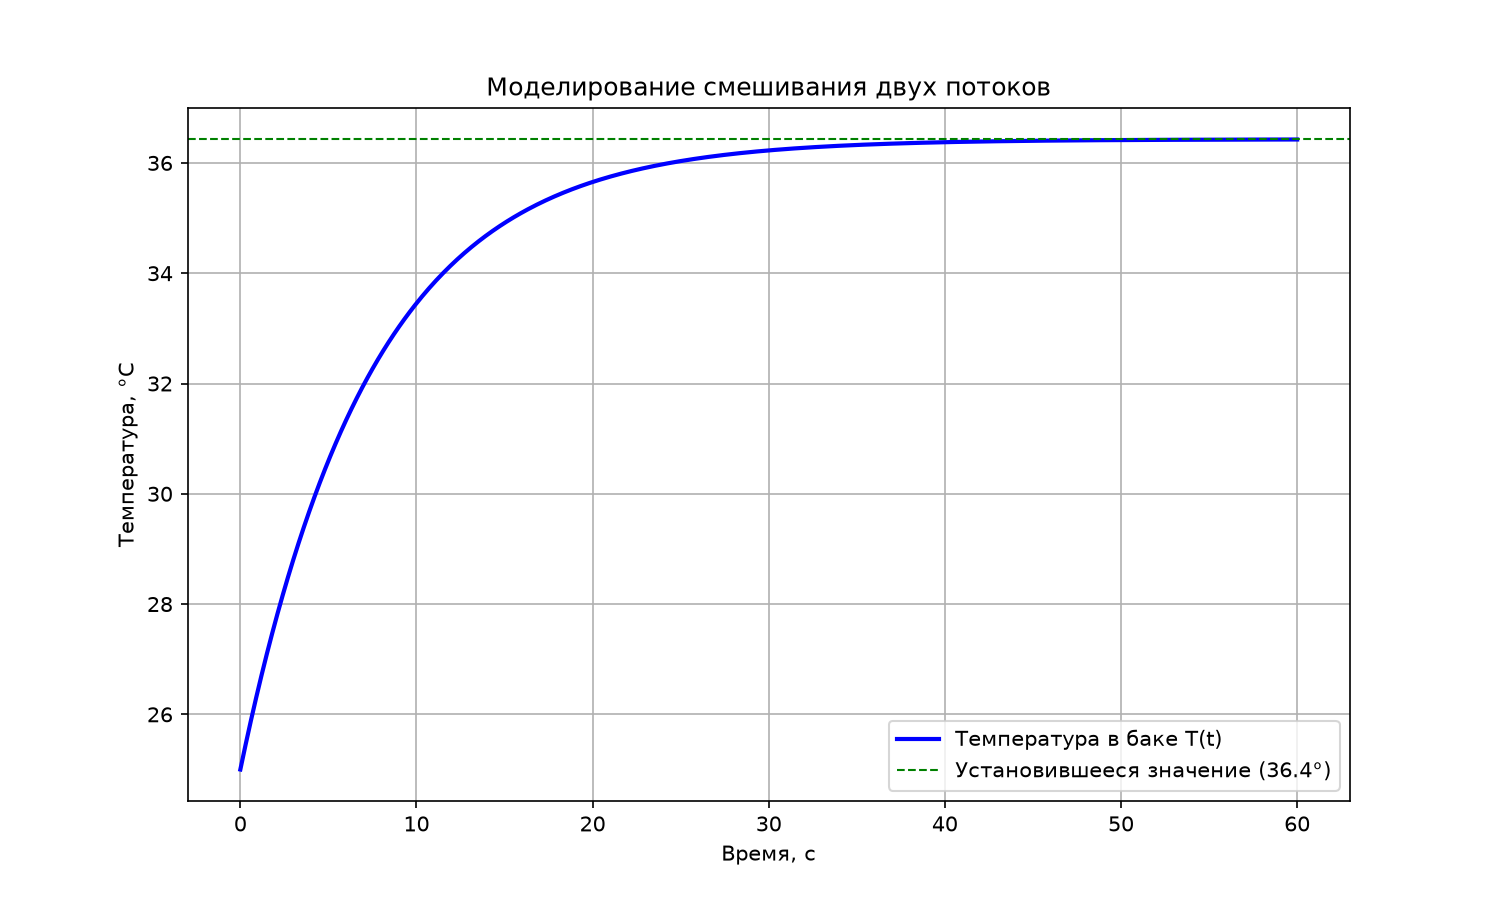
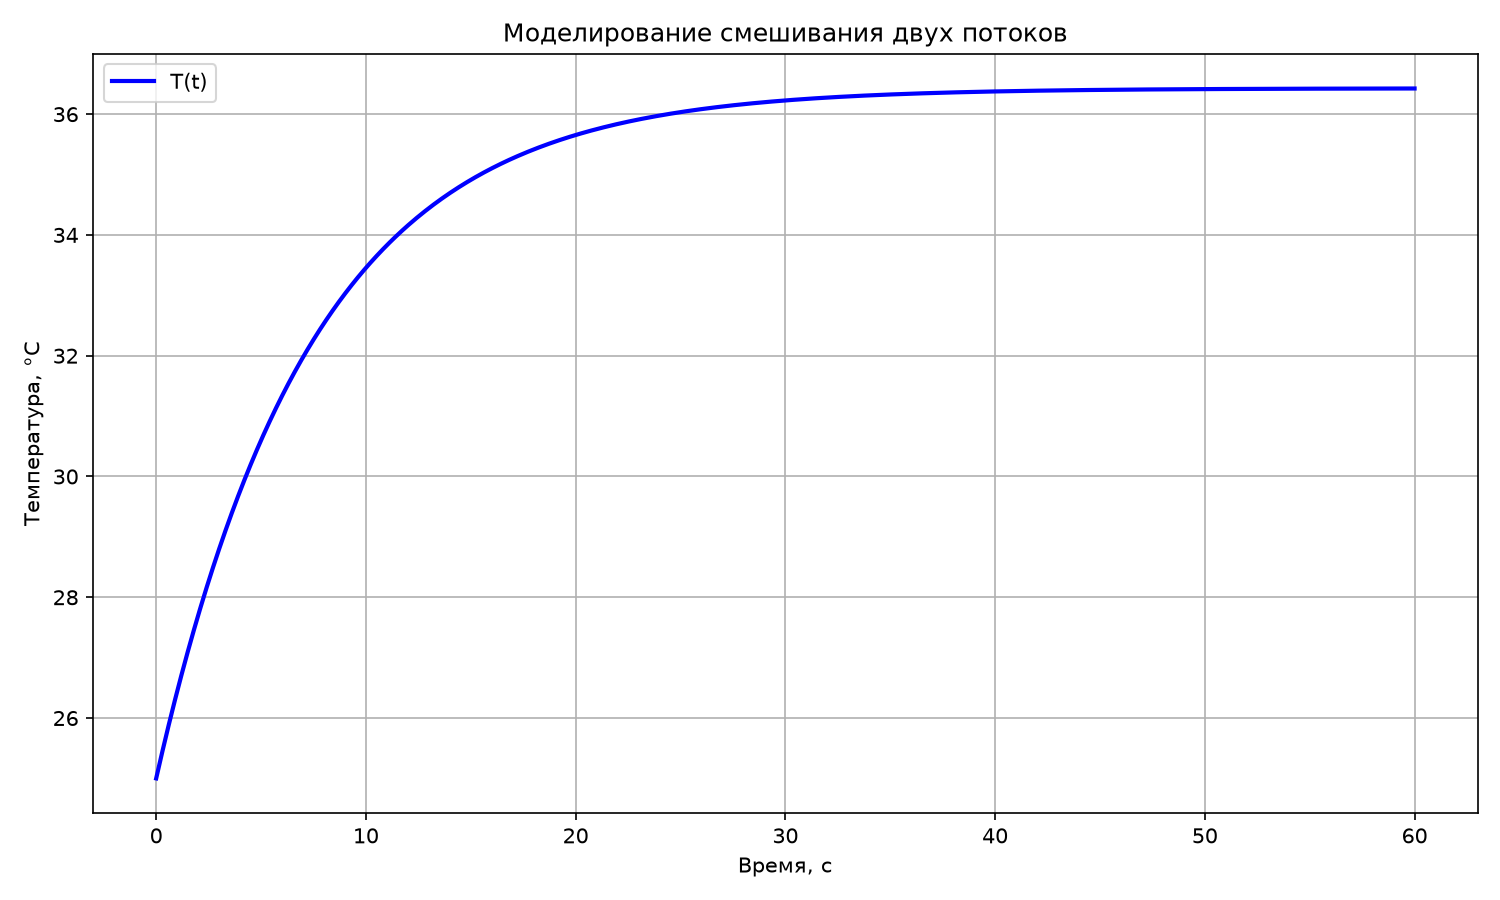
refactor(lab_2): extract constants and wrap simulation in main()

diff --git a/lab_2/main.py b/lab_2/main.py
@@ -1,38 +1,50 @@
-import numpy
-import matplotlib.pyplot as plot
-from scipy.integrate import odeint  # Ordinary Differential Equation Integrator
+"""Моделирование смешивания двух потоков воды в баке."""
 
-volume = 52  # Объем бака
-theta_1 = 15  # Температура первого потока (холодная вода)
-theta_2 = 65  # Температура второго потока (горячая вода)
-g_1 = 4  # Расход первого потока (холодная вода)
-g_2 = 3  # Расход второго потока (горячая вода)
+from pathlib import Path
 
-theta_0 = 25
+import matplotlib.pyplot as plt
+import numpy as np
+from scipy.integrate import odeint  # интегратор ОДУ
 
-def heat_balance_ode(T, t):
-    dT_dt = (g_1 * theta_1 + g_2 * theta_2 - (g_1 + g_2) * T) / volume
+# --- Параметры модели ---
+VOLUME = 52  # Объём бака, л
+THETA_1 = 15  # Температура первого потока (холодная вода), °C
+THETA_2 = 65  # Температура второго потока (горячая вода), °C
+G_1 = 4  # Расход первого потока, м^3/с
+G_2 = 3  # Расход второго потока, м^3/с
+THETA_0 = 25  # Начальная температура воды в баке, °C
+
+# --- Параметры расчёта ---
+T_END = 60  # Длительность моделирования, с
+NUM_POINTS = 600  # Число точек временной сетки
+
+# --- Оформление графика ---
+OUTPUT_FILE = Path(__file__).parent / "simulation.png"  # путь отсчитывается от скрипта
+FIGURE_SIZE = (10, 6)  # размер рисунка, дюймы
+DPI = 150  # разрешение сохраняемого изображения
+
+def heat_balance_ode(T: float, t: float) -> float:
+    """Производная температуры в баке: уравнение теплового баланса."""
+    dT_dt = (G_1 * THETA_1 + G_2 * THETA_2 - (G_1 + G_2) * T) / VOLUME
     return dT_dt
 
-t = numpy.linspace(0, 60, 600)
+def main() -> None:
+    t_grid = np.linspace(0, T_END, NUM_POINTS)
+    T_numeric = odeint(heat_balance_ode, THETA_0, t_grid)
 
-T_solution = odeint(heat_balance_ode, theta_0, t)
+    final = T_numeric[-1][0]
+    print(f"Конечная температура: {final:.2f} градусов")
 
-T_steady = (g_1 * theta_1 + g_2 * theta_2) / (g_1 + g_2)  # dT_dt = 0
-print(f"Установившаяся температура: {T_steady:.2f} градусов")
+    plt.figure(figsize=FIGURE_SIZE)
+    plt.plot(t_grid, T_numeric, "b-", linewidth=2, label="T(t)")
+    plt.title("Моделирование смешивания двух потоков")
+    plt.xlabel("Время, с")
+    plt.ylabel("Температура, °C")
+    plt.legend()
+    plt.grid(True)
+    plt.tight_layout()
+    plt.savefig(OUTPUT_FILE, dpi=DPI)
+    print(f"График сохранён в файл '{OUTPUT_FILE.name}'")
 
-# Построение графика
-plot.figure(figsize=(10, 6))
-plot.plot(t, T_solution, 'b-', linewidth=2, label='Температура в баке T(t)')
-
-plot.axhline(y=T_steady, color='g', linewidth=1, linestyle='--', label=f'Установившееся значение ({T_steady:.1f}°)')
-
-plot.title('Моделирование смешивания двух потоков')
-plot.xlabel('Время, с')
-plot.ylabel('Температура, °С')
-plot.legend()
-plot.grid(True)
-
-file_name = 'simulation.png'
-plot.savefig(file_name, dpi=150)
-print(f"График сохранен в файл '{file_name}'")
+if __name__ == "__main__":
+    main()
